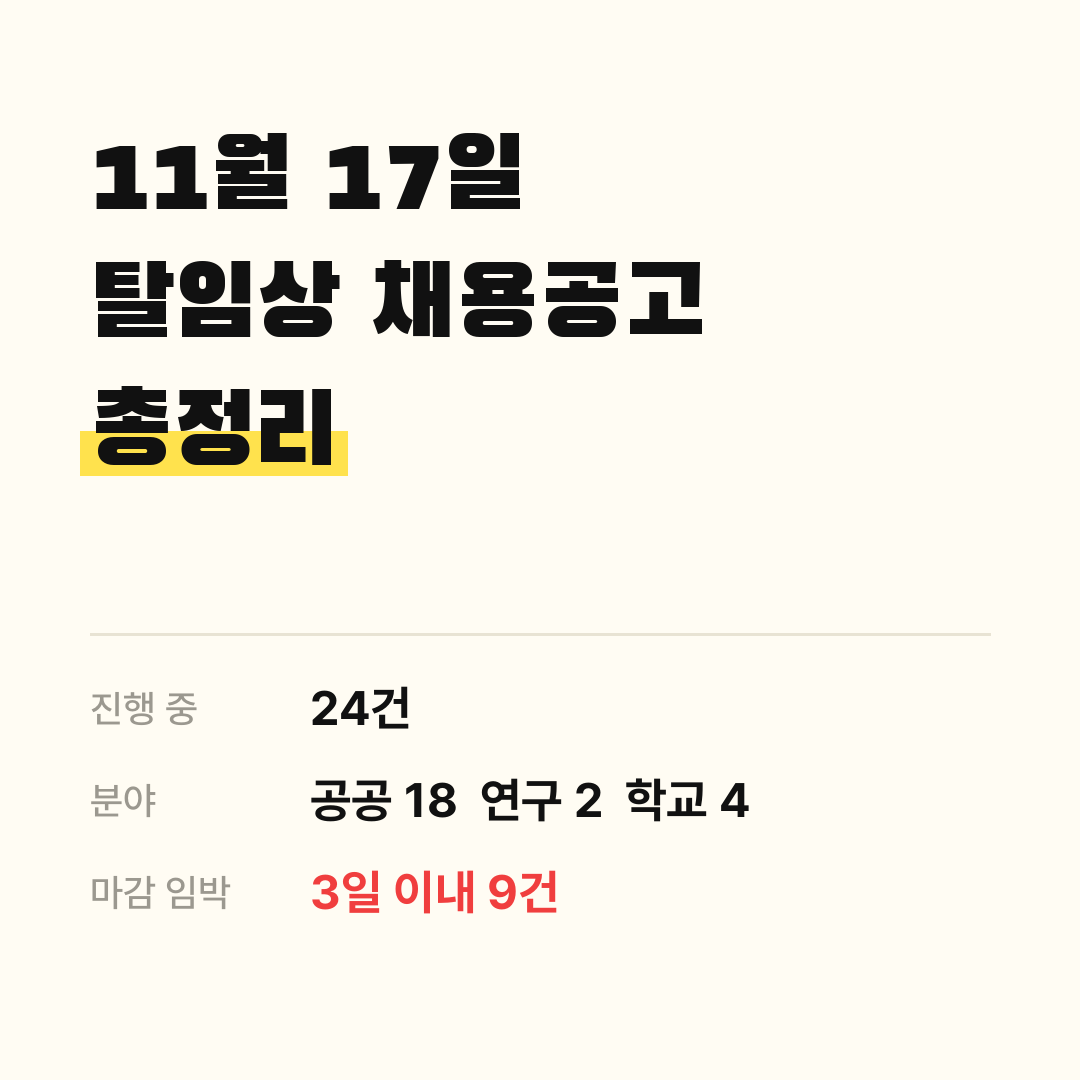
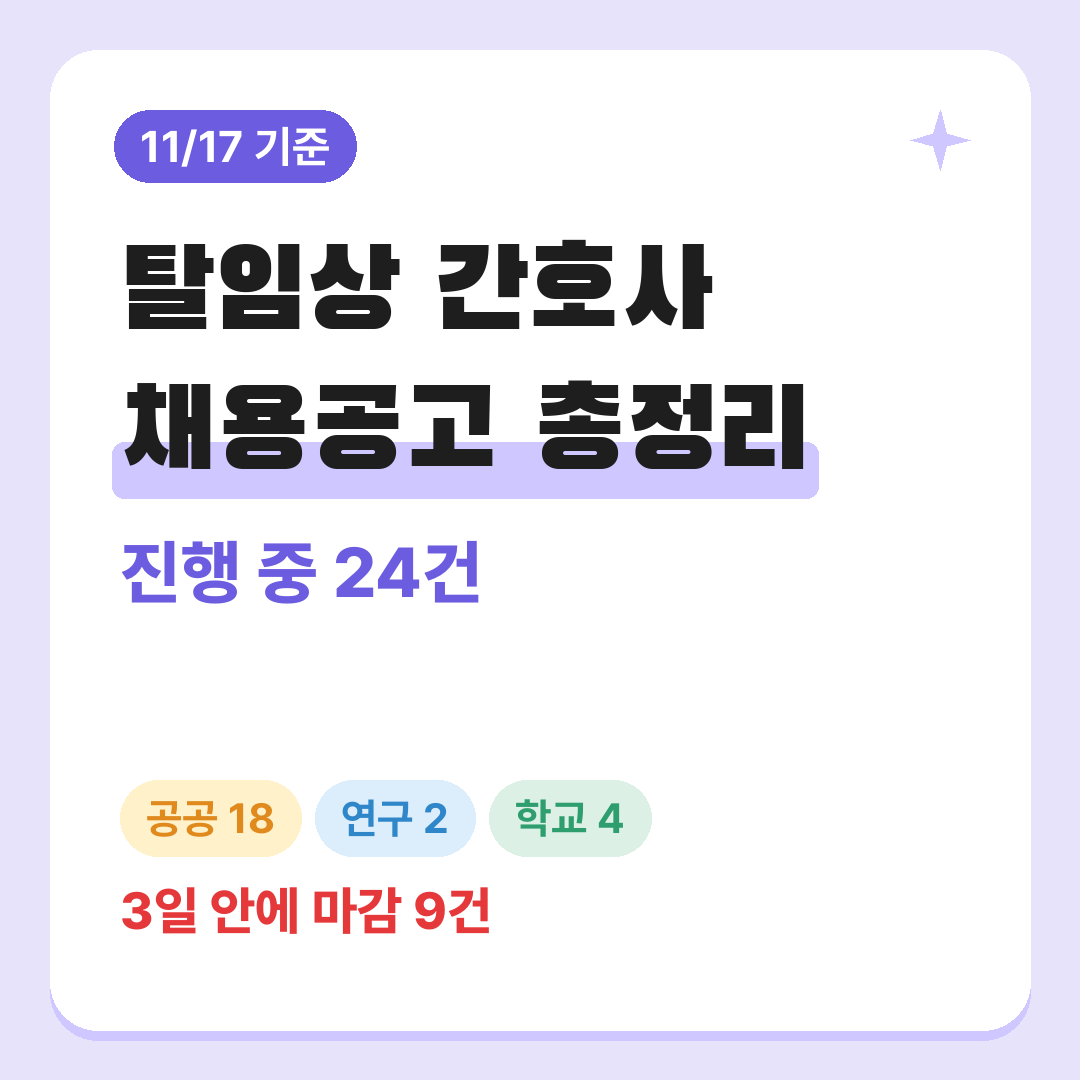
총정리 썸네일: 보라색 전용 + 분야별 색 칩, 기타는 베이지로
Claude-Session: https://claude.ai/code/session_015ozFBvjxcWAyqLYfTbBGCZ

diff --git a/src/render.py b/src/render.py
@@ -311,26 +311,6 @@ def thumb(org: str, role: str, deadline: str | None, deadline_time: str | None, 
     return img
 
 
-def summary_thumb(today: date, total: int, counts: list[tuple[str, int]], soon: int) -> Image.Image:
-    """'전체 공고 정리' 글 썸네일."""
-    S, P = 1080, 90
-    img = Image.new("RGB", (S, S), BG)
-    d = ImageDraw.Draw(img)
-    t = font(100, "Title")
-    d.text((P, 130), f"{today.month}월 {today.day}일", font=t, fill=INK)
-    d.text((P, 258), "탈임상 채용공고", font=t, fill=INK)
-    _marked(d, P, 386, "총정리", t)
-    rows = [("진행 중", f"{total}건", INK), ("분야", "  ".join(f"{k} {v}" for k, v in counts if v) or "-", INK),
-            ("마감 임박", f"3일 이내 {soon}건", RED)]
-    y = S - 130 - 3 * 92
-    d.line([(P, y - 40), (S - P, y - 40)], fill=LINE, width=3)
-    for k, v, c in rows:
-        d.text((P, y + 34), k, font=font(38, "Medium"), fill=MUTED, anchor="lm")
-        d.text((P + 220, y + 34), v, font=font(48, "Bold"), fill=c, anchor="lm")
-        y += 92
-    return img
-
-
 # ---------- 인스타 게시물 (공고 1개 = 1장, 1080x1350): 파스텔 + 형광펜 ----------
 # (배경, 형광펜·장식, 포인트색, 칩 이름) — 주로 나오는 기업·공공이 분홍·노랑
 IG_PAL = {
@@ -338,8 +318,9 @@ IG_PAL = {
     "공공": ("#FFF1C9", "#FFE07A", "#E08A1E", "공공기관"),
     "연구": ("#DCEEFB", "#B3DAF7", "#2F86C8", "임상연구"),
     "학교": ("#DDF0E6", "#B8E6CF", "#2E9E6E", "학교 보건실"),
-    "기타": ("#E6E3FA", "#CFC7FF", "#6C5CE0", "기타"),
+    "기타": ("#EEEBE4", "#DCD5C8", "#857760", "기타"),
 }
+SUMMARY_PAL = ("#E6E3FA", "#CFC7FF", "#6C5CE0")  # 총정리 글 전용 보라
 IG_SOURCE = {"alio": "잡알리오", "sen": "서울시교육청 교육일자리포털", "goe": "경기도교육청 구인정보",
              "gojobs": "나라일터", "site": "기관 채용 홈페이지", "saramin": "사람인"}
 
@@ -597,4 +578,48 @@ def blog_thumb(job: Job, today: date) -> Image.Image:
         lx = X + d.textlength(lab, font=font(44, "Bold")) + 66
         d.rounded_rectangle((lx, y0 + 60, lx + lw + 52, y0 + 132), 36, fill=bg)
         d.text((lx + 26, y0 + 96), loc, font=font(44, "Bold"), fill=pt, anchor="lm")
+    return img
+
+
+def summary_thumb(today: date, total: int, counts: list[tuple[str, int]], soon: int) -> Image.Image:
+    """'진행 중 공고 전체 정리' 글 썸네일: 보라색(총정리 전용) + 분야별 색 칩."""
+    S = 1080
+    bg, mark, pt = SUMMARY_PAL
+    img = Image.new("RGB", (S, S), bg)
+    d = ImageDraw.Draw(img)
+    x0, y0, x1, y1 = 50, 50, S - 50, S - 50
+    d.rounded_rectangle((x0, y0 + 10, x1, y1 + 10), 48, fill=mark)
+    d.rounded_rectangle((x0, y0, x1, y1), 48, fill="white")
+    X = x0 + 70
+    fc = font(44, "Bold")
+    lab = f"{today.month}/{today.day} 기준"
+    cw = d.textlength(lab, font=fc)
+    d.rounded_rectangle((X - 6, y0 + 60, X + cw + 46, y0 + 132), 36, fill=pt)
+    d.text((X + 20, y0 + 96), lab, font=fc, fill="white", anchor="lm")
+    _sparkle(d, x1 - 90, y0 + 90, 30, mark)
+    t = font(112, "Title")
+    y = y0 + 190
+    for i, ln in enumerate(("탈임상 간호사", "채용공고 총정리")):
+        if i == 1:
+            tw = d.textlength(ln, font=t)
+            d.rounded_rectangle((X - 8, y + 112 * 0.55, X + tw + 8, y + 112 * 1.05), 12, fill=mark)
+        d.text((X, y), ln, font=t, fill="#1E1E1E"); y += 140
+    d.text((X, y + 10), f"진행 중 {total}건", font=font(70, "ExtraBold"), fill=pt)
+    # 분야별 칩 (카테고리 색)
+    names = {"기업": "기업", "공공": "공공", "연구": "연구", "학교": "학교", "기타": "기타"}
+    cx, cy = X, y1 - 250
+    fchip = font(42, "Bold")
+    for k, v in counts:
+        if not v:
+            continue
+        c = IG_PAL.get(k, IG_PAL["기타"])
+        txt = f"{names.get(k, k)} {v}"
+        w = d.textlength(txt, font=fchip) + 52
+        if cx + w > x1 - 60:
+            break
+        d.rounded_rectangle((cx, cy, cx + w, cy + 76), 38, fill=c[0])
+        d.text((cx + 26, cy + 38), txt, font=fchip, fill=c[2], anchor="lm")
+        cx += w + 14
+    if soon:
+        d.text((X, y1 - 120), f"3일 안에 마감 {soon}건", font=font(52, "ExtraBold"), fill="#E5383B", anchor="lm")
     return img
